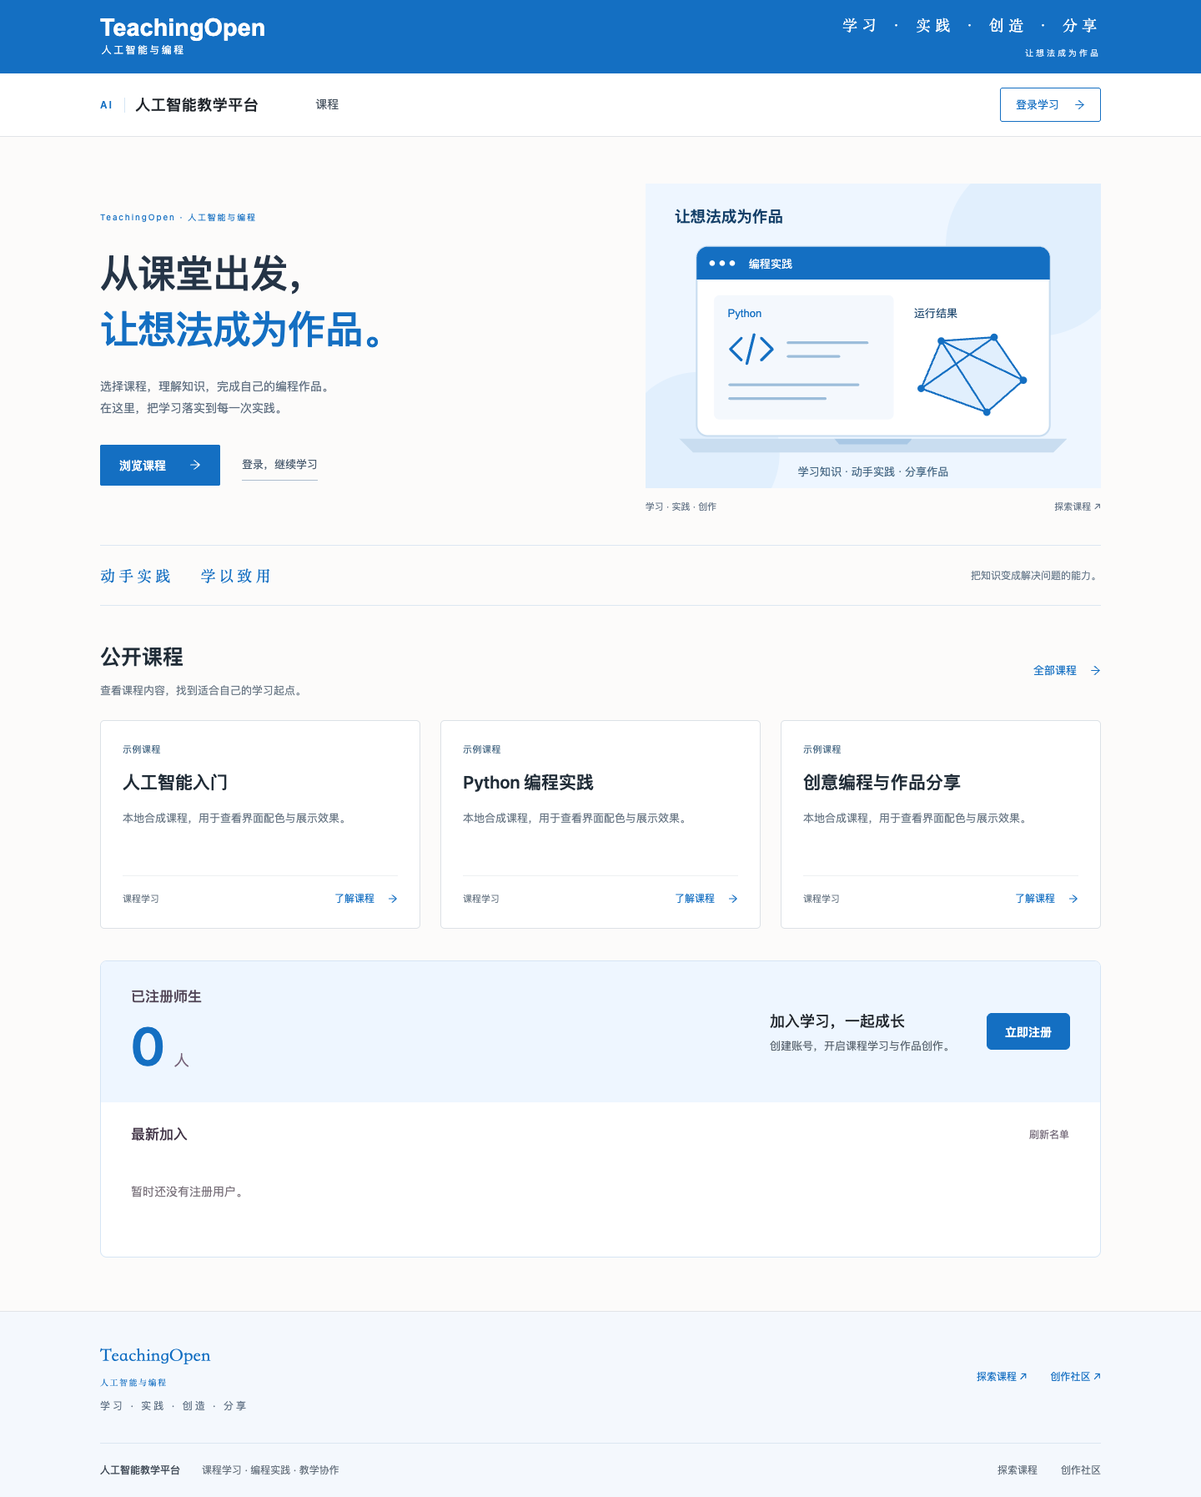
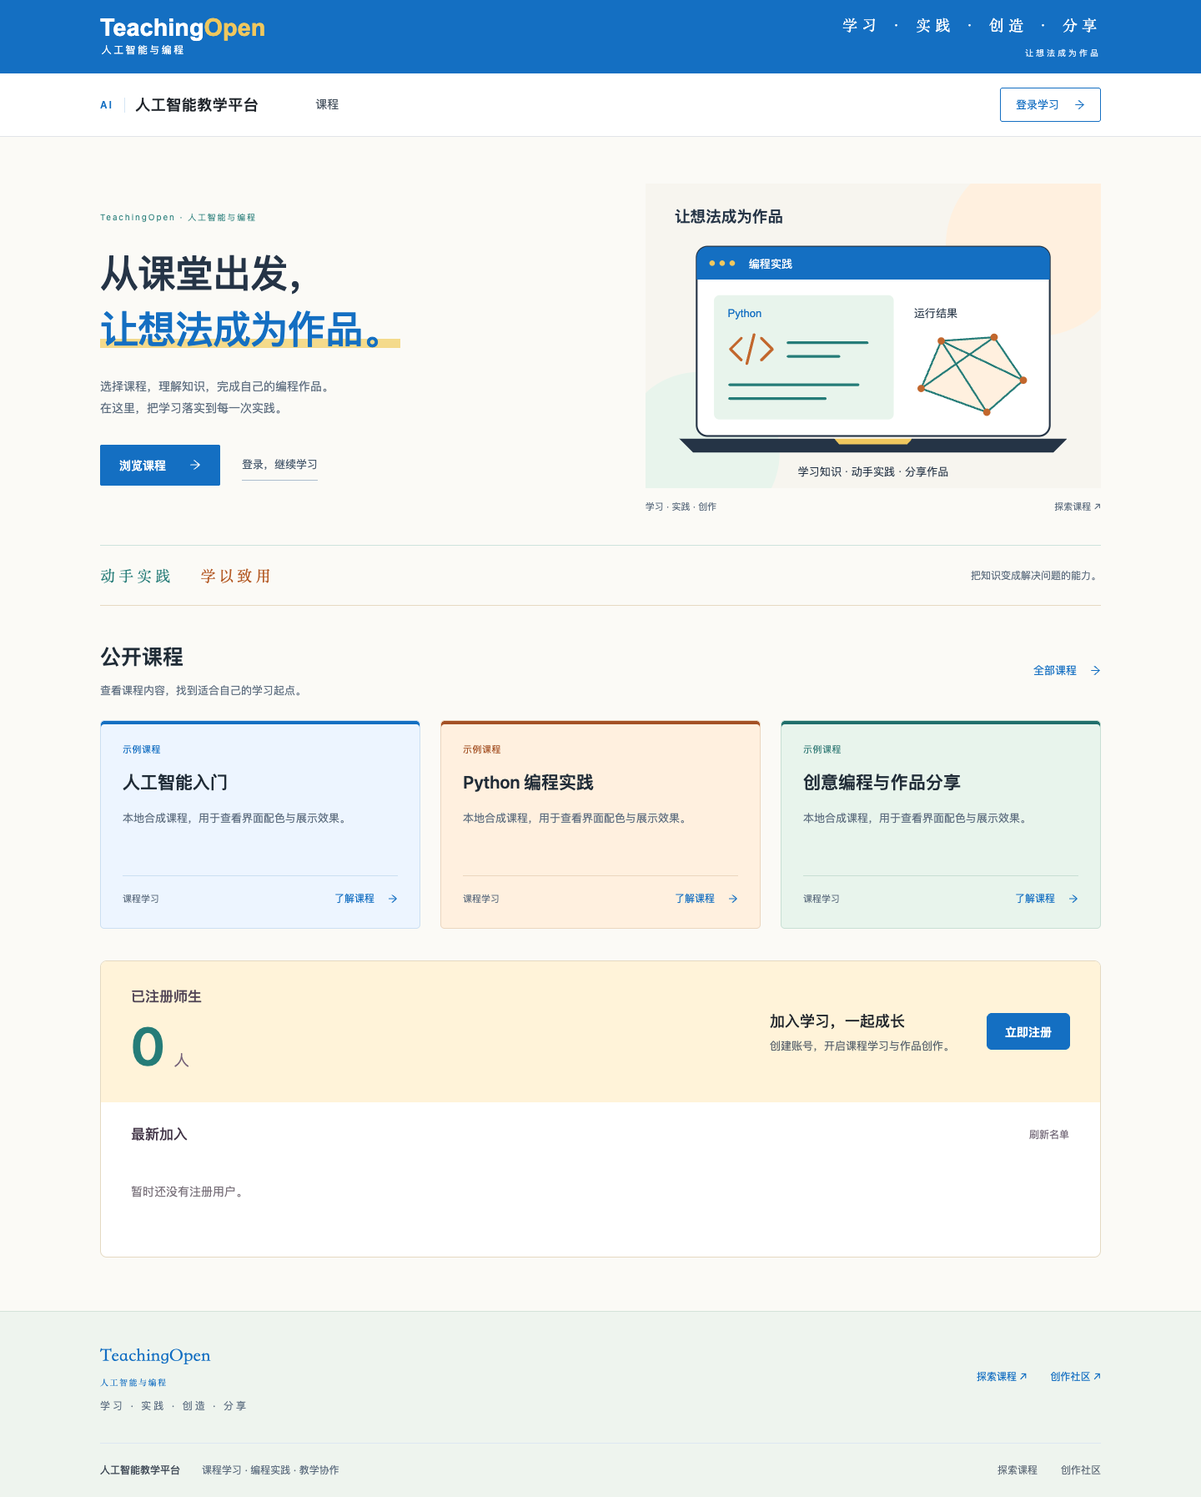
feat: 为学生端增加多彩学习配色

diff --git a/web/src/views/home/layouts/HomeLayout.vue b/web/src/views/home/layouts/HomeLayout.vue
@@ -63,14 +63,14 @@ export default {
 }
 </script>
 <style scoped lang="less">
-.public-layout { min-height: 100vh; display: flex; flex-direction: column; background: #fcfbfa; background-size: 100% auto; color: #253446; font-family: -apple-system, BlinkMacSystemFont, "Segoe UI", "PingFang SC", "Hiragino Sans GB", "Microsoft YaHei", sans-serif; }
+.public-layout { min-height: 100vh; display: flex; flex-direction: column; background: #fbfaf6; background-size: 100% auto; color: #253446; font-family: -apple-system, BlinkMacSystemFont, "Segoe UI", "PingFang SC", "Hiragino Sans GB", "Microsoft YaHei", sans-serif; }
 .public-content { width: 100%; max-width: 1280px; margin: 0 auto; padding: 44px 40px 64px; flex: 1; }
 .skip-link { position: absolute; top: -100px; left: 20px; padding: 12px 20px; background: #fff; border: 2px solid #146fc2; z-index: 1000; }
 .skip-link:focus { top: 8px; }
 .welcome-panel { display: grid; grid-template-columns: 1.08fr 1fr; gap: 64px; align-items: center; padding: 12px 0 38px; }
-.eyebrow { color: #146fc2; font-size: 10px; letter-spacing: 1.8px; margin: 0 0 26px; }
+.eyebrow { color: #257c78; font-size: 10px; letter-spacing: 1.8px; margin: 0 0 26px; }
 .welcome-copy h1 { font-size: clamp(34px, 3.2vw, 46px); font-weight: 500; line-height: 1.45; letter-spacing: -1px; color: #253446; margin: 0 0 22px; }
-.welcome-copy h1 span { color: #146fc2; }
+.welcome-copy h1 span { color: #146fc2; background: linear-gradient(transparent 72%, #f4da8b 72%, #f4da8b 92%, transparent 92%); }
 .welcome-description { font-size: 14px; line-height: 1.9; color: #5d6d7f; margin: 0 0 30px; }
 .welcome-actions { display: flex; flex-wrap: wrap; align-items: center; gap: 26px; }
 .primary-action { display: inline-flex; align-items: center; gap: 28px; padding: 13px 22px; border: 1px solid #146fc2; border-radius: 2px; background: #146fc2; color: #fff; font-weight: 500; }
@@ -80,15 +80,15 @@ export default {
 a:focus-visible { outline: 2px solid #146fc2; outline-offset: 5px; }
 .campus-view { min-width: 0; margin: 0; }
 .campus-view img { display: block; width: 100%; height: auto; aspect-ratio: 499 / 333; object-fit: cover; }
-.campus-view figcaption { display: flex; justify-content: space-between; gap: 15px; color: #647487; font-size: 11px; margin-top: 14px; }
-.campus-view figcaption a { color: #647487; }
+.campus-view figcaption { display: flex; justify-content: space-between; gap: 15px; color: #5d6d7f; font-size: 11px; margin-top: 14px; }
+.campus-view figcaption a { color: #5d6d7f; }
 .campus-image-fallback { aspect-ratio: 499 / 333; background: #eef6ff; color: #146fc2; display: flex; flex-direction: column; justify-content: center; padding: 36px; }
 .campus-image-fallback span { font-size: 11px; letter-spacing: 2px; }
 .campus-image-fallback p { color: #146fc2; font-family: 'Songti SC', SimSun, serif; font-size: 32px; line-height: 1.7; margin: 20px 0 0; }
-.teaching-principle { padding: 22px 0; margin-bottom: 42px; border-top: 1px solid #dce7f2; border-bottom: 1px solid #dce7f2; display: flex; align-items: center; justify-content: space-between; gap: 20px; }
-.teaching-principle p { margin: 0; font-family: 'Songti SC', SimSun, serif; color: #146fc2; letter-spacing: 4px; font-size: 18px; }
-.teaching-principle p span { margin-left: 24px; }
-.teaching-principle > span { color: #67798b; font-size: 12px; }
+.teaching-principle { padding: 22px 0; margin-bottom: 42px; border-top: 1px solid #cde3dd; border-bottom: 1px solid #e6d9c2; display: flex; align-items: center; justify-content: space-between; gap: 20px; }
+.teaching-principle p { margin: 0; font-family: 'Songti SC', SimSun, serif; color: #257c78; letter-spacing: 4px; font-size: 18px; }
+.teaching-principle p span { margin-left: 24px; color: #b45a25; }
+.teaching-principle > span { color: #5d6d7f; font-size: 12px; }
 .welcome-banner { min-width: 0; }
 @media (max-width: 1000px) { .welcome-panel { gap: 32px; grid-template-columns: 1fr 1fr; } .welcome-copy h1 { font-size: 34px; } .eyebrow { letter-spacing: 1px; } }
 @media (max-width: 900px) { .public-content { padding: 32px 28px 48px; } .welcome-panel.has-banner { grid-template-columns: 1fr; } .teaching-principle > span { max-width: 190px; line-height: 1.8; } }

diff --git a/web/src/views/home/CourseList.vue b/web/src/views/home/CourseList.vue
@@ -172,15 +172,18 @@ export default {
 .page-heading { margin-bottom: 36px; padding-bottom: 30px; border-bottom: 1px solid #dfe4e9; }
 .eyebrow { margin: 0 0 12px; color: #146fc2; font-size: 10px; font-weight: 600; letter-spacing: 2px; }
 .page-heading h1 { font-size: 36px; line-height: 1.4; font-weight: 600; color: #202c37; margin: 0 0 14px; }
-.page-description { color: #687684; margin: 0; line-height: 1.8; font-size: 14px; }
+.page-description { color: #5d6d7f; margin: 0; line-height: 1.8; font-size: 14px; }
 .course-body { display: grid; grid-template-columns: 220px minmax(0, 1fr); gap: 40px; align-items: start; }
 .results-heading { display: flex; justify-content: space-between; align-items: center; gap: 16px; margin-bottom: 24px; }
 .results-heading h2 { color: #202c37; font-size: 21px; font-weight: 600; margin: 0; }
-.results-heading p { color: #7a8692; margin: 0; font-size: 12px; }
+.results-heading p { color: #5d6d7f; margin: 0; font-size: 12px; }
 .course-grid { display: grid; grid-template-columns: repeat(2, minmax(0, 1fr)); gap: 24px; }
 .course-card { min-width: 0; }
-.loading-state { display: flex; justify-content: center; gap: 12px; align-items: center; padding: 36px; color: #687684; }
-.message-state { text-align: center; padding: 48px 24px; background: #fff; border: 1px solid #dce1e6; border-radius: 5px; color: #687684; }
+.course-card:nth-child(3n + 1) { --course-accent: #146fc2; --course-surface: #edf5ff; --course-border: #cbdff2; }
+.course-card:nth-child(3n + 2) { --course-accent: #a45125; --course-surface: #fff0df; --course-border: #ebd6bf; }
+.course-card:nth-child(3n) { --course-accent: #206f6b; --course-surface: #e8f4ec; --course-border: #c8dfd4; }
+.loading-state { display: flex; justify-content: center; gap: 12px; align-items: center; padding: 36px; color: #5d6d7f; }
+.message-state { text-align: center; padding: 48px 24px; background: #fff; border: 1px solid #dce1e6; border-radius: 5px; color: #5d6d7f; }
 .message-state > .anticon { font-size: 26px; margin-bottom: 18px; color: #82909b; }
 .message-state h3 { font-size: 18px; color: #344553; margin-bottom: 12px; }
 .message-state button { color: #146fc2; background: #fff; border: 1px solid #146fc2; border-radius: 4px; padding: 9px 18px; cursor: pointer; }
@@ -190,7 +193,7 @@ export default {
 .load-more { display: block; margin: 32px auto 0; border-radius: 4px; }
 .course-description { overflow-wrap: anywhere; line-height: 1.8; }
 .course-description /deep/ img { max-width: 100%; height: auto; }
-.description-empty { color: #687684; }
+.description-empty { color: #5d6d7f; }
 @media (max-width: 1000px) { .course-body { grid-template-columns: minmax(0, 1fr); gap: 28px; } .course-grid { gap: 20px; } }
 @media (max-width: 600px) { .course-grid { grid-template-columns: minmax(0, 1fr); gap: 18px; } .page-heading { padding-bottom: 24px; margin-bottom: 24px; } .page-heading h1 { font-size: 30px; } .page-description { font-size: 13px; } }
 </style>

diff --git a/web/src/views/home/modules/CourseCard.vue b/web/src/views/home/modules/CourseCard.vue
@@ -31,13 +31,13 @@ export default {
 }
 </script>
 <style scoped lang="less">
-.course-card-button { display: flex; flex-direction: column; width: 100%; height: 100%; min-height: 250px; padding: 0; border: 1px solid #dce1e6; border-radius: 5px; text-align: left; background: #fff; color: #26313b; cursor: pointer; font: inherit; overflow: hidden; transition: border-color .15s ease, box-shadow .15s ease; }
-.course-card-button:hover { border-color: #9caab5; box-shadow: 0 3px 10px rgba(30, 45, 58, .06); }
+.course-card-button { display: flex; flex-direction: column; width: 100%; height: 100%; min-height: 250px; padding: 0; border: 1px solid var(--course-border, #dce1e6); border-radius: 5px; text-align: left; background: var(--course-surface, #fff); box-shadow: inset 0 4px 0 var(--course-accent, #146fc2); color: #26313b; cursor: pointer; font: inherit; overflow: hidden; transition: border-color .15s ease, box-shadow .15s ease; }
+.course-card-button:hover { border-color: var(--course-accent, #146fc2); box-shadow: inset 0 4px 0 var(--course-accent, #146fc2), 0 3px 10px rgba(30, 45, 58, .06); }
 .course-card-button:focus-visible { outline: 2px solid #146fc2; outline-offset: 4px; }
 .course-cover { display: block; position: relative; width: 100%; padding-top: 48%; background: #f0f2f4; }
 .course-cover img { position: absolute; inset: 0; width: 100%; height: 100%; object-fit: cover; }
 .course-info { display: flex; flex-direction: column; width: 100%; padding: 26px; flex: 1; }
-.course-category { color: #456783; font-size: 11px; letter-spacing: .5px; margin-bottom: 16px; }
+.course-category { color: var(--course-accent, #456783); font-size: 11px; letter-spacing: .5px; margin-bottom: 16px; }
 .course-title { display: block; font-size: 21px; font-weight: 600; color: #202c37; line-height: 1.5; overflow-wrap: anywhere; }
 .course-summary {
   /* Autoprefixer 6 removes box-orient without this rule-local switch. */
@@ -49,12 +49,12 @@ export default {
   max-height: 5.7em;
   flex-shrink: 0;
   overflow-wrap: anywhere;
-  color: #687684;
+  color: #5d6d7f;
   font-size: 13px;
   line-height: 1.9;
   margin: 14px 0 26px;
 }
-.course-meta { display: flex; justify-content: space-between; align-items: center; gap: 12px; margin-top: auto; padding-top: 18px; border-top: 1px solid #edf0f2; color: #687684; font-size: 11px; }
+.course-meta { display: flex; justify-content: space-between; align-items: center; gap: 12px; margin-top: auto; padding-top: 18px; border-top: 1px solid var(--course-border, #edf0f2); color: #5d6d7f; font-size: 11px; }
 .course-action { display: inline-flex; align-items: center; gap: 16px; color: #146fc2; font-size: 12px; }
 @media (max-width: 600px) { .course-card-button { min-height: 236px; } .course-info { padding: 24px; } .course-title { font-size: 20px; } }
 @media (prefers-reduced-motion: reduce) { .course-card-button { transition: none; } }

diff --git a/web/src/views/home/modules/CoursePreview.vue b/web/src/views/home/modules/CoursePreview.vue
@@ -49,11 +49,14 @@ export default {
 <style scoped lang="less">
 .preview-heading { display: flex; align-items: center; justify-content: space-between; gap: 24px; margin-bottom: 24px; }
 .preview-heading h2 { font-size: 25px; font-weight: 600; color: #202c37; margin: 0 0 10px; }
-.preview-heading p { color: #687684; font-size: 13px; margin: 0; line-height: 1.8; }
+.preview-heading p { color: #5d6d7f; font-size: 13px; margin: 0; line-height: 1.8; }
 .preview-heading > a { display: inline-flex; align-items: center; gap: 16px; color: #146fc2; font-size: 13px; white-space: nowrap; }
 .preview-grid { display: grid; grid-template-columns: repeat(auto-fit, minmax(240px, 1fr)); gap: 24px; }
 .preview-grid article { min-width: 0; }
-.preview-state { padding: 36px 24px; background: #fff; border: 1px solid #e1e5e9; color: #687684; text-align: center; line-height: 1.8; }
+.preview-grid article:nth-child(3n + 1) { --course-accent: #146fc2; --course-surface: #edf5ff; --course-border: #cbdff2; }
+.preview-grid article:nth-child(3n + 2) { --course-accent: #a45125; --course-surface: #fff0df; --course-border: #ebd6bf; }
+.preview-grid article:nth-child(3n) { --course-accent: #206f6b; --course-surface: #e8f4ec; --course-border: #c8dfd4; }
+.preview-state { padding: 36px 24px; background: #fff; border: 1px solid #e1e5e9; color: #5d6d7f; text-align: center; line-height: 1.8; }
 .preview-state button { border: 1px solid #146fc2; background: #fff; border-radius: 4px; padding: 8px 16px; color: #146fc2; cursor: pointer; }
 a:focus-visible, button:focus-visible { outline: 2px solid #146fc2; outline-offset: 4px; }
 .course-description { overflow-wrap: anywhere; line-height: 1.8; }

diff --git a/web/src/views/home/modules/PublicUserDirectory.vue b/web/src/views/home/modules/PublicUserDirectory.vue
@@ -58,14 +58,14 @@ export default {
 }
 </script>
 <style scoped lang="less">
-.registered-users { margin-top: 38px; border: 1px solid #d5e5f5; border-radius: 8px; overflow: hidden; color: #29222b; background: #fff; }
-.directory-overview { display: flex; align-items: center; justify-content: space-between; gap: 32px; padding: 30px 36px; background: #eef6ff; }
+.registered-users { margin-top: 38px; border: 1px solid #e4d9c2; border-radius: 8px; overflow: hidden; color: #29222b; background: #fff; }
+.directory-overview { display: flex; align-items: center; justify-content: space-between; gap: 32px; padding: 30px 36px; background: #fff3d9; }
 .directory-summary { flex: 1; min-width: 0; }
 h2 { margin: 0 0 10px; font-size: 17px; line-height: 1.5; font-weight: 500; color: #534757; }
-.directory-total { display: flex; align-items: baseline; flex-wrap: wrap; gap: 12px; color: #146fc2; }
+.directory-total { display: flex; align-items: baseline; flex-wrap: wrap; gap: 12px; color: #257c78; }
 .directory-total strong { min-width: 0; max-width: 100%; overflow-wrap: anywhere; font-size: 64px; line-height: 1.15; font-weight: 600; letter-spacing: -1px; font-variant-numeric: tabular-nums; }
 .directory-total span { font-size: 18px; color: #77637a; }
-.directory-total-status { margin: 18px 0; color: #79717a; font-size: 16px; }
+.directory-total-status { margin: 18px 0; color: #5d6d7f; font-size: 16px; }
 .directory-entry { flex: 0 1 360px; min-width: 0; }
 .directory-list { min-width: 0; padding: 24px 36px 28px; }
 .directory-list-heading { display: flex; justify-content: space-between; align-items: center; gap: 16px; margin-bottom: 16px; }

diff --git a/web/src/views/home/modules/Footer.vue b/web/src/views/home/modules/Footer.vue
@@ -27,7 +27,7 @@ export default {
 .campus-footer nav { display: flex; gap: 28px; }
 .campus-footer a { color: #146fc2; }
 .campus-footer a:focus-visible { outline: 2px solid #146fc2; outline-offset: 4px; }
-.public-footer { background: #f4f8fd; padding: 0 40px; border-top: 1px solid #e1e4e8; color: #66717d; font-size: 12px; line-height: 1.7; }
+.public-footer { background: #eef4ee; padding: 0 40px; border-top: 1px solid #d4e3d9; color: #5d6d7f; font-size: 12px; line-height: 1.7; }
 .footer-inner { max-width: 1200px; margin: auto; padding: 22px 0; display: flex; align-items: center; justify-content: space-between; gap: 20px; }
 .footer-inner strong { color: #454f5b; font-weight: 500; margin-right: 26px; }
 .footer-inner nav { display: flex; gap: 28px; white-space: nowrap; }

diff --git a/docs/optimization/neutral-blue-branding-20261010.md b/docs/optimization/neutral-blue-branding-20261010.md
@@ -1,11 +1,11 @@
-# 中性品牌与科技蓝主题
+# 中性品牌与蓝色主调的多彩主题
 
-用户选择保留现有布局和功能，只替换天津工业大学相关的内置品牌及紫色主色。候选基于 `6da25b9caabf06574b7b17a824d32e8c6e0d7dc5`，分支为 `feature/neutral-blue-branding`。
+用户选择保留现有布局和功能，替换天津工业大学相关的内置品牌及紫色主色，并在科技蓝基础上增加适合学生的多种配色。候选基于 `6da25b9caabf06574b7b17a824d32e8c6e0d7dc5`，分支为 `feature/neutral-blue-branding`。
 
 ## 改动范围
 
 - 内置校名字标、校园照片、校训、学校外链、浏览器标题和图片失败回退改为 TeachingOpen 与学习主题内容。两个替代 SVG 为本次自制，不引用外部图片。
-- 主色统一为 `#146fc2`，hover 为 `#095b9e`，登录背景为 `#123e67`；同步默认设置、动态主题默认源、按钮、链接、选中状态和浅色背景。其余可选主题与红绿状态色保留。
+- 主色统一为 `#146fc2`，hover 为 `#095b9e`，登录背景为 `#123e67`；同步默认设置、动态主题默认源、按钮、链接、选中状态和浅色背景。首页和课程区使用蓝、橙、绿轮换的装饰底色，插画及字标加入黄色细节，卡片颜色不表示类别或身份。其余可选主题与红绿状态色保留。
 - 组件脚本、页面尺寸、间距、布局、断点与教学业务逻辑保持原样。外链替换指向既有站内路由。
 - 三个既有独立预览构建增加 SVG 支持并同步默认主题；品牌相关既有测试只更新预期文字。没有新增测试或依赖。
 - README 使用[候选首页实拍](../images/course-home-blue.png)，历史截图和素材来源记录继续保留。
@@ -16,7 +16,7 @@
 - `npm run lint:changed`：通过；另外对本轮主要品牌组件执行 ESLint，通过。
 - 新涉及的旧主题设置文件存在历史 ESLint 错误；子 Agent 将诊断与改动前逐项比较，新增诊断为 0，没有扩大范围修复历史格式。
 - `NODE_OPTIONS='--openssl-legacy-provider --max-old-space-size=4096' npm run build`：成功。仍有资源体积和入口体积两类警告，以及 Browserslist 数据过期提示。
-- `npm run check:initial-assets`：通过，初始 JS/CSS 为 3,279,537 bytes，gzip 为 883,355 bytes，均在仓库预算内。
+- `npm run check:initial-assets`：通过，初始 JS/CSS 为 3,280,220 bytes，gzip 为 883,529 bytes，均在仓库预算内。
 - `PYTHONDONTWRITEBYTECODE=1 python3 -m unittest test_prepare_launch_data -q`：18 / 18 通过；后端文件本次仅改注释。
 - `account-recovery-preview`、`student-feedback-preview`、`student-work-loading-preview` 三份既有 `build.cjs` 实际构建均以 0 退出；产物包含新 SVG 标识和科技蓝主题。
 - 独立 Agent 核查了品牌入口、配置覆盖、路由、SVG、安全的图片失败回退和布局不变性；发现的预览 SVG loader 兼容问题纳入本次修复。
@@ -25,7 +25,9 @@
 
 实际候选 `web/dist` 通过本地 HTTP 服务加载。沿用 `web/tests/browser-fixture.py` 的服务方式，在仓库外临时副本中提供默认品牌配置、3 门明确标注的合成课程和空注册目录；没有连接真实后端或生产数据库。
 
-在 1440 和 390 像素宽度分别打开首页、课程列表、登录、注册、密码找回，共 10 个场景：页面宽度未超过视口、图片正常加载、可见文字无学校品牌、链接无学校外链。另在 1440、390、320 像素宽度触发两个品牌图片的 `error` 事件，确认文字回退为 TeachingOpen 与学习文案且无横向溢出；该检查只验证错误处理分支，不模拟真实网络故障。
+最初科技蓝候选在 1440 和 390 像素宽度分别打开首页、课程列表、登录、注册、密码找回，共 10 个场景：页面宽度未超过视口、图片正常加载、可见文字无学校品牌、链接无学校外链。另在 1440、390、320 像素宽度触发两个品牌图片的 `error` 事件，确认文字回退为 TeachingOpen 与学习文案且无横向溢出；该检查只验证错误处理分支，不模拟真实网络故障。
+
+多色迭代另在 1440/390 像素宽度复查首页、课程列表、登录、注册和密码找回页，共 10 场景：无横向溢出、图片加载正常；浏览器计算样式确认三种卡片配色正确继承。本轮新增文字配色经独立 Agent 计算对比度；普通小字至少 4.5:1，黄色字标和高亮标题为大字，满足 3:1。
 
 正式首页截图在恢复图片正常加载后直接保存，未改 DOM、未后期改字。登录与找回页面的验证码由合成服务触发未加载状态，本轮只检查显示与品牌，不宣称真实登录、验证码、注册或密码重置链路通过。
 

diff --git a/docs/images/README.md b/docs/images/README.md
@@ -4,7 +4,7 @@
 
 | 文件 | 日期 | 来源与范围 |
 | --- | --- | --- |
-| [course-home-blue.png](course-home-blue.png) | 2026-10-10 | 科技蓝候选前端生产构建在本机 `http://127.0.0.1:18360/index` 运行，以 1440×900 视口保存整页实拍。接口使用隔离的本地合成数据：3 门示例课程、0 名注册用户；未连接生产后端。品牌图片与文字来自实际组件，无 DOM 替换或截图后期改字。见[本轮验证记录](../optimization/neutral-blue-branding-20261010.md)。 |
+| [course-home-blue.png](course-home-blue.png) | 2026-10-10 | 蓝色主调的多彩候选前端生产构建在本机 `http://127.0.0.1:18360/index` 运行，以 1440×1000 视口保存整页实拍。接口使用隔离的本地合成数据：3 门示例课程、0 名注册用户；未连接生产后端。品牌图片与文字来自实际组件，无 DOM 替换或截图后期改字。见[本轮验证记录](../optimization/neutral-blue-branding-20261010.md)。 |
 | [course-home-desktop.jpg](course-home-desktop.jpg) | 2026-10-10 | 历史校园主题截图：在既有本地示例服务 `http://127.0.0.1:18150/index` 匿名打开首页，直接保存浏览器当前视口截图；页面显示合成测试课程与自制教学夹具。没有登录、修改数据或重启服务。 |
 | [python-workspace.png](python-workspace.png) | 2026-10-03 | 从 [Python 编辑器运行截图](https://github.com/ZZZZihan/TeachingOpen/blob/f906f8e782795ddd670725e85ffa4ea1756b665c/docs/optimization/evidence/python-execution-frame/final-editor-events-1440.png) 逐字节复制。实际编辑器运行自写 Turtle 程序，保存相关接口使用本机模拟服务；该图展示编辑与绘图界面，不证明真实后端保存。 |
 | [student-feedback.png](student-feedback.png) | 2026-10-05 | 从 [学生反馈截图](https://github.com/ZZZZihan/TeachingOpen/blob/205e1ca10d68b7341c9f23fec9ece379365f5f9a/docs/optimization/evidence/authenticated-role-flow-20261005/student-scratchjr-feedback-fulltext.png) 逐字节复制；普通登录后的本地合成教学环境。 |

diff --git a/README.md b/README.md
@@ -12,9 +12,9 @@
 
 TeachingOpen 将课程学习、在线编程、作业提交与教师反馈连接在一起。学生可以从课程进入 Python、Scratch 或 ScratchJr 创作，教师按班级查看作品、评分并给出建议，管理员统一维护课程、账号与班级。
 
-项目基于 TeachingOpen 持续开发，采用科技蓝主题与中性学习视觉，服务于人工智能科普与编程教学场景。
+项目基于 TeachingOpen 持续开发，采用科技蓝主色、橙绿黄辅助配色与学习主题插画，服务于人工智能科普与编程教学场景。
 
-![TeachingOpen 首页：科技蓝主题、课程入口与示例课程](docs/images/course-home-blue.png)
+![TeachingOpen 首页：蓝色主调的多彩主题、课程入口与示例课程](docs/images/course-home-blue.png)
 
 <p align="center"><sub>本地示例环境实拍 · 2026-10-10 · 课程为合成演示数据</sub></p>
 
